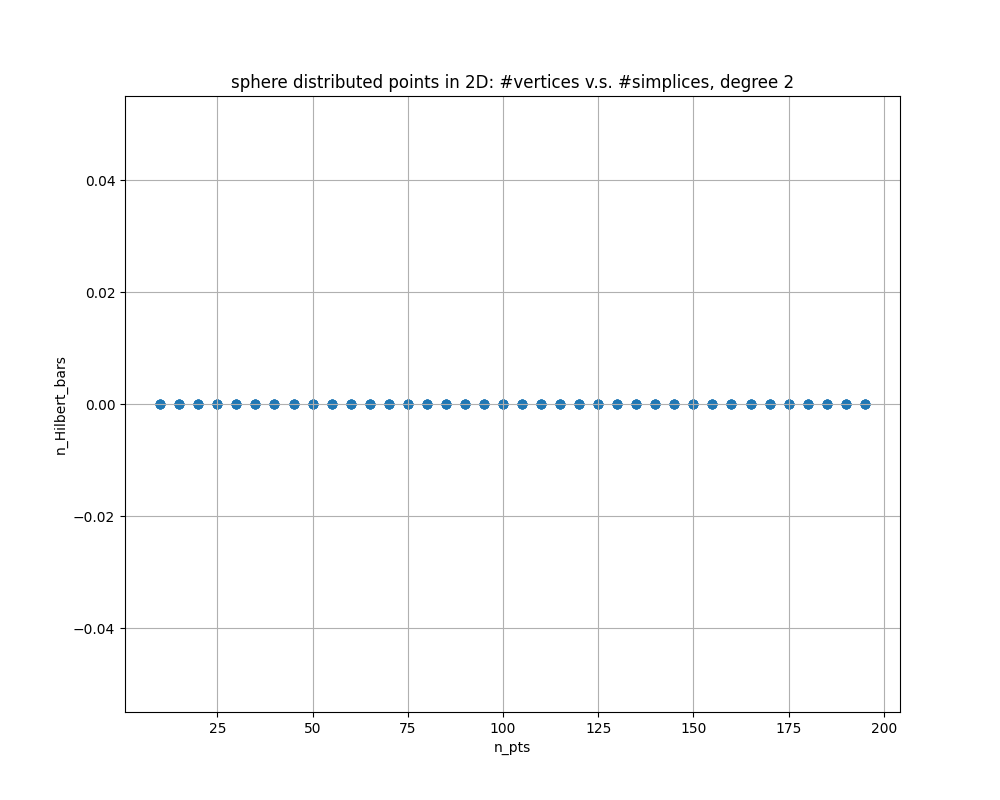
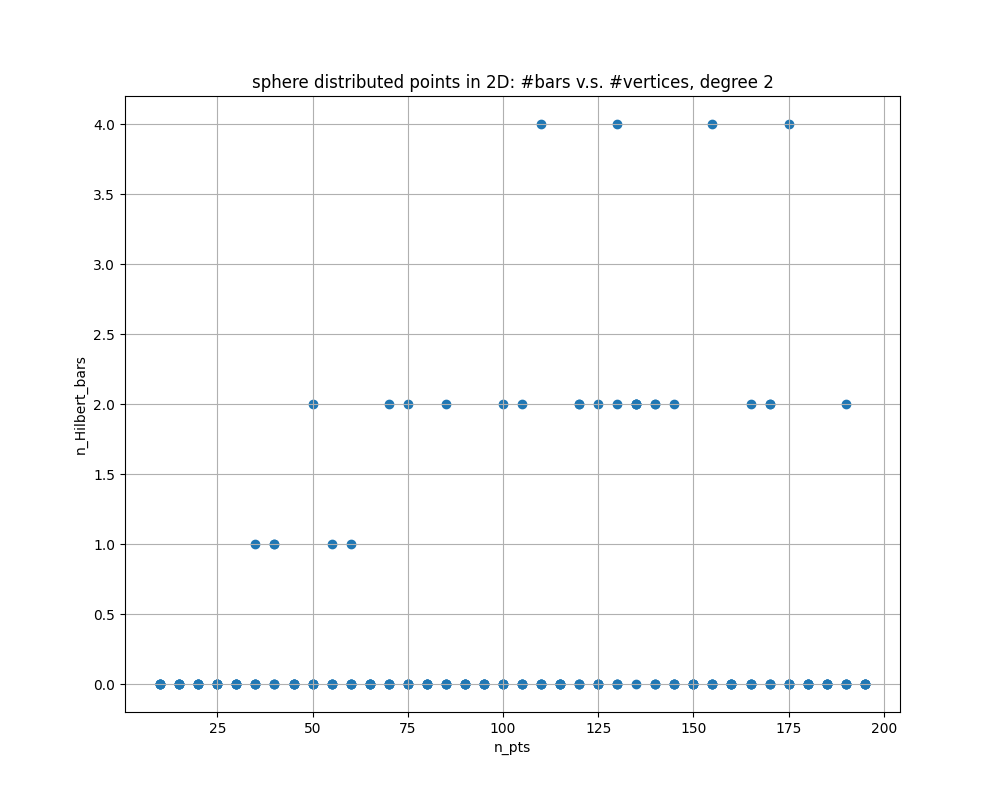
add new experimental results for higher homology

diff --git a/persistable/experiment_count_decomp_v4.py b/persistable/experiment_count_decomp_v4.py
@@ -15,7 +15,7 @@ from sklearn.metrics import DistanceMetric
 
 
 
-def generate_torus_points(N, R, r, noise_std_dev):
+def generate_torus_points(N, R, r, noise_std_dev=0.1):
     # Generate N uniform random angles for the circle and tube
     theta = 2 * np.pi * np.random.rand(N)  # angle for the circle
     phi = 2 * np.pi * np.random.rand(N)  # angle for the tube
@@ -63,17 +63,21 @@ def generate_clustered_points(N, d, c, cluster_std_dev):
     normalized_points = (points - min_values) / (max_values - min_values)
     return normalized_points
 
-def generate_hypersphere_points(N, k,radius=1):
+def generate_hypersphere_points(N, k, radius=1, noise_std_dev=0.1):
     # Generate N k-dimensional Gaussian random vectors
     points = np.random.normal(size=(N, k))
 
     # Normalize each point to the hypersphere of given radius
     points /= np.linalg.norm(points, axis=1)[:, np.newaxis]
     points *= radius
-    min_values = np.min(points, axis=0)
-    max_values = np.max(points, axis=0)
+
+    # Add Gaussian noise to the points
+    noise = np.random.normal(scale=noise_std_dev, size=(N, k))
+    points += noise
 
     # Normalize the points so they fall within the range [0, 1]
+    min_values = np.min(points, axis=0)
+    max_values = np.max(points, axis=0)
     normalized_points = (points - min_values) / (max_values - min_values)
 
     return normalized_points
@@ -86,8 +90,14 @@ def create_uniformly_distributed_points(dim,pts_range,N):
     return points
 
 def create_torus_points(pts_range,N):
-    points = generate_torus_points(N, 1, 0.1, 0.05)
+    points = generate_torus_points(N, 1, 0.1, 0)
     points = points * pts_range
+
+    #fig = plt.figure()
+    #ax = fig.add_subplot(111, projection='3d')
+    #ax.scatter(points[:, 0], points[:, 1], points[:, 2])
+    #plt.show()
+
     return points
 
 def create_Gaussian_points(dim,pts_range,N,n_clusters):
@@ -138,6 +148,7 @@ def run_experiments_higher_homology(n_batch, dim_point, pts_range, num_points, d
 
     for num_point in num_points:
         for batch_id in range(n_batch):
+            print("processing "+str(num_point) +" points")
             # Create points
             if data_type=="uniform":
                 points = create_uniformly_distributed_points(dim_point,pts_range, num_point)
@@ -186,11 +197,11 @@ def draw_plot(x,y,x_name,y_name,title_name,fig_name):
 
 
 ##### User Define
-n_batch = 5
+n_batch = 2
 pts_range = 10
 data_type = "sphere"
 max_n_clusters = 5
-max_dim_points = 5
+max_dim_points = 4
 max_degree = 1
 min_degree = 0
 min_radius = 0
@@ -198,7 +209,7 @@ grid_granularity = 10
 max_homological_dimension = 2
 #num_points=[10,20,30,40,60,80,100,200,400,600,800,1000,1400,1800]
 #num_points=[10,20,30,40,60,70,80,90,100,110,120,130,140,150,160,170,180,190,200]
-num_points=np.arange(10,200,5)
+num_points=np.arange(100,2000,50)
 print("num_points=",num_points)
 ######
 
@@ -215,8 +226,8 @@ if data_type == "torus":
 
     title_type = data_type + " distributed points in " + str(dim_point) + "D: "
     title_name1 = title_type + "#bars v.s. #simplices, degree "+str(max_homological_dimension)
-    title_name2 = title_type + "#vertices v.s. #simplices, degree "+str(max_homological_dimension)
-    title_name3 = title_type + "#vertices v.s. sqrt(#simplices), degree "+str(max_homological_dimension)
+    title_name2 = title_type + "#bars v.s. #vertices, degree "+str(max_homological_dimension)
+    title_name3 = title_type + "#bars v.s. sqrt(#simplices), degree "+str(max_homological_dimension)
 
     fig_name1 = data_type + "/" + data_type+"_" + str(dim_point) + "D_bars-simplices_degree_"+str(max_homological_dimension)
     fig_name2 = data_type + "/" + data_type+"_" + str(dim_point) + "D_bars-vertices_degree_"+str(max_homological_dimension)
@@ -241,8 +252,8 @@ elif data_type== "gaussian":
             title_type = data_type + " distributed points in " + str(dim_point) + "D: "
             title_type = str(n_clusters) + " clusters " + title_type
             title_name1 = title_type + "#bars v.s. #simplices, degree "+str(max_homological_dimension)
-            title_name2 = title_type + "#vertices v.s. #simplices, degree "+str(max_homological_dimension)
-            title_name3 = title_type + "#vertices v.s. sqrt(#simplices), degree "+str(max_homological_dimension)
+            title_name2 = title_type + "#bars v.s. #vertices, degree "+str(max_homological_dimension)
+            title_name3 = title_type + "#bars v.s. sqrt(#simplices), degree "+str(max_homological_dimension)
             fig_name1 = data_type +"/" + data_type+"_" + str(dim_point) + "D_"+str(n_clusters)+"_clusters_bars-simplices_degree_"+str(max_homological_dimension)
             fig_name2 = data_type +"/" + data_type+"_" + str(dim_point) + "D_"+str(n_clusters)+"_clusters_bars-vertices_degree_"+str(max_homological_dimension)
             fig_name3 = data_type +"/" + data_type+"_" + str(dim_point) + "D_"+str(n_clusters)+"_clusters_bars-sqrt(n_simplices)_degree_"+str(max_homological_dimension)
@@ -257,14 +268,14 @@ elif data_type== "gaussian":
 
              
 elif data_type=="uniform" or "sphere":
-    for dim_point in range(1,max_dim_points):
+    for dim_point in range(3,max_dim_points):
         max_radius = (dist.pairwise([np.zeros(dim_point),np.ones(dim_point)*pts_range])[0,1]+1)/2
 
         n_signed_bars, n_simplices, n_vertices = run_experiments_higher_homology(n_batch, dim_point, pts_range, num_points, data_type, n_clusters, min_radius,max_radius, max_degree,min_degree,grid_granularity,max_homological_dimension)
         title_type = data_type + " distributed points in " + str(dim_point) + "D: "
         title_name1 = title_type + "#bars v.s. #simplices, degree "+str(max_homological_dimension)
-        title_name2 = title_type + "#vertices v.s. #simplices, degree "+str(max_homological_dimension)
-        title_name3 = title_type + "#vertices v.s. sqrt(#simplices), degree "+str(max_homological_dimension)
+        title_name2 = title_type + "#bars v.s. #vertices, degree "+str(max_homological_dimension)
+        title_name3 = title_type + "#bars v.s. sqrt(#simplices), degree "+str(max_homological_dimension)
         fig_name1 = data_type +"/" + data_type+"_" + str(dim_point) + "D_bars-simplices_degree_"+str(max_homological_dimension)
         fig_name2 = data_type +"/" + data_type+"_" + str(dim_point) + "D_bars-vertices_degree_"+str(max_homological_dimension)
         fig_name3 = data_type +"/" + data_type+"_" + str(dim_point) + "D_bars-sqrt(n_simplices)_degree_"+str(max_homological_dimension)

diff --git a/create_sphere_points.py b/create_sphere_points.py
@@ -1,26 +1,34 @@
 import numpy as np
 import matplotlib.pyplot as plt
+import pdb
 
-def generate_hypersphere_points(N, k,radius=1):
+def generate_hypersphere_points(N, k,radius=1,noise_std_dev=0.1):
     # Generate N k-dimensional Gaussian random vectors
     points = np.random.normal(size=(N, k))
 
     # Normalize each point to the hypersphere of given radius
     points /= np.linalg.norm(points, axis=1)[:, np.newaxis]
     points *= radius
+
+    # Add Gaussian noise to the points
+    noise = np.random.normal(scale=noise_std_dev, size=(N, k))
+    points += noise
+
+    
+    # Normalize the points so they fall within the range [0, 1]
     min_values = np.min(points, axis=0)
     max_values = np.max(points, axis=0)
 
-    # Normalize the points so they fall within the range [0, 1]
     normalized_points = (points - min_values) / (max_values - min_values)
 
     return normalized_points
 
 # Example usage:
 N = 1000  # Number of points
-k = 3  # Dimensionality of the space
+k = 2  # Dimensionality of the space
 radius = 1  # Radius of the hypersphere
-points = generate_hypersphere_points(N, k) * 20
+
+points = generate_hypersphere_points(N, k) * 1
 
 
 # Create a new figure
@@ -30,7 +38,9 @@ fig = plt.figure()
 ax = fig.add_subplot(111, projection='3d')
 
 # Scatter the points
-ax.scatter(points[:, 0], points[:, 1], points[:, 2])
+#ax.scatter(points[:, 0], points[:, 1], points[:, 2])
+ax.scatter(points[:, 0], points[:, 1], np.zeros(N))
+
 
 # Show the plot
 plt.show()

diff --git a/create_torus_points.py b/create_torus_points.py
@@ -26,10 +26,10 @@ def generate_torus_points(N, R, r, noise_std_dev):
     return np.column_stack([x, y, z])
 
 # Usage:
-N = 1000  # number of points
+N = 500  # number of points
 R = 1  # distance from the center of the tube to the center of the torus
 r = 0.1  # radius of the tube (distance from the center of the tube to the torus surface)
-noise_std_dev = 0.05  # standard deviation of the Gaussian noise
+noise_std_dev = 0.01  # standard deviation of the Gaussian noise
 pts_range = 10
 # Generate the points
 points = generate_torus_points(N, R, r, noise_std_dev)
